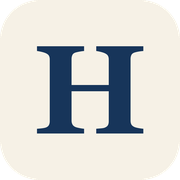
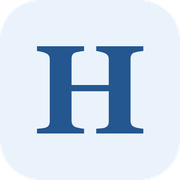
Calmer colours: one soft blue accent
Plain white background with charcoal text and a single soft blue accent
(links, highlights, small bars); matching favicon and project cover.

Changed region(s): [[0.1944, 0.25, 0.8056, 0.75]]

diff --git a/assets/css/style.css b/assets/css/style.css
@@ -1,25 +1,24 @@
 /* Haoran Zhang - personal homepage
-   One static page, no build step. Light navy & sand palette;
-   dark mode via the tokens below. */
+   One static page, no build step. Calm palette: neutral text on white
+   with ONE soft accent colour (the --accent* tokens). Dark mode below. */
 
 :root {
-  --bg: #fcfcfa;
+  --bg: #ffffff;
   --card: #ffffff;
-  --soft: #f5f3ee;
-  --text: #1c2738;
-  --muted: #546072;
-  --faint: #667283;
-  --border: #e8e4db;
-  --navy: #17355a;
-  --link: #1f5091;
-  --sand: #e3c47f;
-  --sand-strong: #c9a24b;
-  --sand-text: #7a5711;
-  --sand-soft: #fbf6ea;
-  --chip: #eef3fa;
-  --chip-text: #1d3f6e;
-  --topbar: rgba(252, 252, 250, 0.9);
-  --shadow: 0 1px 2px rgba(23, 53, 90, 0.05), 0 6px 16px rgba(23, 53, 90, 0.06);
+  --soft: #f4f7fa;
+  --text: #1f2937;
+  --heading: #1f2937;
+  --muted: #4b5563;
+  --faint: #64707f;
+  --border: #e5e8ec;
+  --link: #2f6fb0;
+  --accent: #9dbfe3;
+  --accent-soft: #f0f6fc;
+  --accent-text: #24578f;
+  --chip: #eef4fb;
+  --chip-text: #24578f;
+  --topbar: rgba(255, 255, 255, 0.92);
+  --shadow: 0 1px 2px rgba(31, 41, 55, 0.04), 0 6px 16px rgba(31, 41, 55, 0.06);
   --radius: 12px;
   --maxw: 1000px;
   --serif: "Source Serif 4", "Iowan Old Style", "Palatino Linotype", Palatino, Georgia, serif;
@@ -29,40 +28,42 @@
 
 @media (prefers-color-scheme: dark) {
   :root:not([data-theme="light"]) {
-    --bg: #0b1626;
-    --card: #101e33;
-    --soft: #15263f;
-    --text: #e8edf4;
-    --muted: #aab6c8;
-    --faint: #8f9cb0;
-    --border: #22355a;
-    --navy: #ffffff;
-    --link: #e3c47f;
-    --sand-text: #edd59f;
-    --sand-soft: #1c2a3c;
-    --chip: #1a2c4d;
-    --chip-text: #c9d6ea;
-    --topbar: rgba(11, 22, 38, 0.88);
+    --bg: #0f141a;
+    --card: #151c24;
+    --soft: #1a232d;
+    --text: #e6eaef;
+    --heading: #f2f4f7;
+    --muted: #a7b1bd;
+    --faint: #8a95a3;
+    --border: #26313d;
+    --link: #8ab4e8;
+    --accent: #4a76a8;
+    --accent-soft: #172536;
+    --accent-text: #a9c8ef;
+    --chip: #1b2a3c;
+    --chip-text: #a9c8ef;
+    --topbar: rgba(15, 20, 26, 0.9);
     --shadow: 0 1px 2px rgba(0, 0, 0, 0.4);
     color-scheme: dark;
   }
 }
 
 :root[data-theme="dark"] {
-  --bg: #0b1626;
-  --card: #101e33;
-  --soft: #15263f;
-  --text: #e8edf4;
-  --muted: #aab6c8;
-  --faint: #8f9cb0;
-  --border: #22355a;
-  --navy: #ffffff;
-  --link: #e3c47f;
-  --sand-text: #edd59f;
-  --sand-soft: #1c2a3c;
-  --chip: #1a2c4d;
-  --chip-text: #c9d6ea;
-  --topbar: rgba(11, 22, 38, 0.88);
+  --bg: #0f141a;
+  --card: #151c24;
+  --soft: #1a232d;
+  --text: #e6eaef;
+  --heading: #f2f4f7;
+  --muted: #a7b1bd;
+  --faint: #8a95a3;
+  --border: #26313d;
+  --link: #8ab4e8;
+  --accent: #4a76a8;
+  --accent-soft: #172536;
+  --accent-text: #a9c8ef;
+  --chip: #1b2a3c;
+  --chip-text: #a9c8ef;
+  --topbar: rgba(15, 20, 26, 0.9);
   --shadow: 0 1px 2px rgba(0, 0, 0, 0.4);
   color-scheme: dark;
 }
@@ -75,7 +76,7 @@
 
 html {
   scroll-behavior: smooth;
-  scroll-padding-top: 76px;
+  scroll-padding-top: 72px;
   -webkit-text-size-adjust: 100%;
 }
 
@@ -99,7 +100,7 @@ a:hover {
   text-underline-offset: 3px;
 }
 
-/* Links in running text: quiet sand underline, so they are not told apart by colour alone. */
+/* Links in running text: a soft underline in the link colour, so they are not told apart by colour alone. */
 .bio a,
 .news a,
 .place a,
@@ -108,9 +109,9 @@ a:hover {
 .bullets a,
 .credit a {
   text-decoration: underline;
-  text-decoration-thickness: 1.5px;
+  text-decoration-thickness: 1px;
   text-underline-offset: 3px;
-  text-decoration-color: color-mix(in srgb, var(--sand-strong) 65%, transparent);
+  text-decoration-color: color-mix(in srgb, var(--link) 35%, transparent);
 }
 .bio a:hover,
 .news a:hover,
@@ -152,7 +153,6 @@ video {
   background: var(--topbar);
   backdrop-filter: saturate(160%) blur(10px);
   -webkit-backdrop-filter: saturate(160%) blur(10px);
-  border-top: 3px solid var(--sand);
   border-bottom: 1px solid var(--border);
 }
 .topbar .container {
@@ -165,7 +165,7 @@ video {
   font-family: var(--serif);
   font-weight: 600;
   font-size: 19px;
-  color: var(--navy);
+  color: var(--heading);
   white-space: nowrap;
 }
 .brand:hover {
@@ -190,7 +190,7 @@ video {
   white-space: nowrap;
 }
 .nav a:hover {
-  color: var(--navy);
+  color: var(--heading);
   background: var(--soft);
   text-decoration: none;
 }
@@ -208,7 +208,7 @@ video {
   cursor: pointer;
 }
 .theme-toggle:hover {
-  color: var(--navy);
+  color: var(--heading);
   background: var(--soft);
 }
 .theme-toggle svg {
@@ -247,17 +247,17 @@ video {
   font-size: 44px;
   line-height: 1.1;
   letter-spacing: -0.01em;
-  color: var(--navy);
+  color: var(--heading);
   margin: 0 0 8px;
 }
 .hero h1::after {
   content: "";
   display: block;
-  width: 44px;
+  width: 40px;
   height: 3px;
   margin-top: 14px;
   border-radius: 2px;
-  background: var(--sand);
+  background: var(--accent);
 }
 .hero .role {
   font-size: 18px;
@@ -313,8 +313,8 @@ video {
   transition: border-color 0.15s, background 0.15s;
 }
 .links a:hover {
-  border-color: var(--sand-strong);
-  background: var(--sand-soft);
+  border-color: var(--accent);
+  background: var(--accent-soft);
   text-decoration: none;
 }
 .links svg {
@@ -327,8 +327,8 @@ video {
   margin: 0 0 14px;
 }
 .bio .interests {
-  border-left: 3px solid var(--sand);
-  background: var(--sand-soft);
+  border-left: 3px solid var(--accent);
+  background: var(--accent-soft);
   padding: 11px 16px;
   border-radius: 0 10px 10px 0;
 }
@@ -379,10 +379,10 @@ section.block {
   position: absolute;
   left: 0;
   bottom: -2px;
-  width: 36px;
+  width: 32px;
   height: 3px;
   border-radius: 2px;
-  background: var(--sand);
+  background: var(--accent);
 }
 .block-head h2 {
   margin: 0;
@@ -390,7 +390,7 @@ section.block {
   font-size: 22px;
   font-weight: 700;
   letter-spacing: -0.015em;
-  color: var(--navy);
+  color: var(--heading);
 }
 .block-head .note {
   font-size: 13px;
@@ -420,8 +420,8 @@ section.block {
   padding-top: 2px;
 }
 .news .hot {
-  background: var(--sand-soft);
-  border-left: 3px solid var(--sand);
+  background: var(--accent-soft);
+  border-left: 3px solid var(--accent);
   border-radius: 0 10px 10px 0;
   padding: 10px 14px 10px 11px;
 }
@@ -429,7 +429,7 @@ section.block {
   border-top: 0;
 }
 .news .hot time {
-  color: var(--sand-text);
+  color: var(--accent-text);
 }
 .tag {
   display: inline-block;
@@ -441,9 +441,9 @@ section.block {
   border-radius: 6px;
   margin-right: 2px;
   vertical-align: 1px;
-  color: var(--sand-text);
+  color: var(--accent-text);
   background: var(--card);
-  border: 1px solid var(--sand);
+  border: 1px solid var(--accent);
 }
 
 /* ---------- cards (publications, award, project) ---------- */
@@ -463,12 +463,11 @@ section.block {
   transition: border-color 0.15s, box-shadow 0.15s;
 }
 .item:hover {
-  border-color: var(--sand);
+  border-color: var(--accent);
   box-shadow: var(--shadow);
 }
 .item.award {
   grid-template-columns: 380px minmax(0, 1fr);
-  border-color: var(--sand);
 }
 .media {
   position: relative;
@@ -497,7 +496,7 @@ section.block {
   padding: 4px 7px;
   border-radius: 999px;
   color: #ffffff;
-  background: rgba(23, 53, 90, 0.78);
+  background: rgba(31, 41, 55, 0.72);
   pointer-events: none;
 }
 .media .cap.left {
@@ -518,7 +517,7 @@ section.block {
   padding: 0;
   border: 0;
   border-radius: 999px;
-  background: rgba(23, 53, 90, 0.72);
+  background: rgba(31, 41, 55, 0.66);
   color: #fff;
   cursor: pointer;
   opacity: 0.85;
@@ -563,15 +562,11 @@ section.block {
   background: transparent;
   border: 1px solid var(--border);
 }
-.badge.venue {
+.badge.venue,
+.badge.gold {
   color: var(--chip-text);
   background: var(--chip);
   border-color: transparent;
-}
-.badge.gold {
-  color: var(--sand-text);
-  background: var(--sand-soft);
-  border-color: var(--sand);
 }
 .badge svg {
   width: 13px;
@@ -584,7 +579,7 @@ section.block {
   letter-spacing: -0.005em;
 }
 .item h3 a {
-  color: var(--text);
+  color: var(--heading);
 }
 .item h3 a:hover {
   color: var(--link);
@@ -636,8 +631,8 @@ section.block {
   background: var(--card);
 }
 .btns a:hover {
-  border-color: var(--sand-strong);
-  background: var(--sand-soft);
+  border-color: var(--accent);
+  background: var(--accent-soft);
   text-decoration: none;
 }
 .btns span.soon {
@@ -711,7 +706,7 @@ section.block {
   line-height: 1.35;
 }
 .org a {
-  color: var(--text);
+  color: var(--heading);
 }
 .org a:hover {
   color: var(--link);
@@ -761,7 +756,7 @@ section.block {
   width: 6px;
   height: 6px;
   border-radius: 50%;
-  background: var(--sand-strong);
+  background: var(--accent);
 }
 .bullets .muted {
   color: var(--muted);

diff --git a/404.html b/404.html
@@ -30,7 +30,7 @@
   <link rel="stylesheet" href="/assets/css/style.css">
   <style>
     .nf { min-height: 70vh; display: flex; flex-direction: column; justify-content: center; align-items: flex-start; gap: 8px; }
-    .nf h1 { font-family: var(--serif); font-size: 36px; margin: 0; color: var(--navy); }
+    .nf h1 { font-family: var(--serif); font-size: 36px; margin: 0; color: var(--heading); }
     .nf p { margin: 0; color: var(--muted); }
   </style>
 </head>
